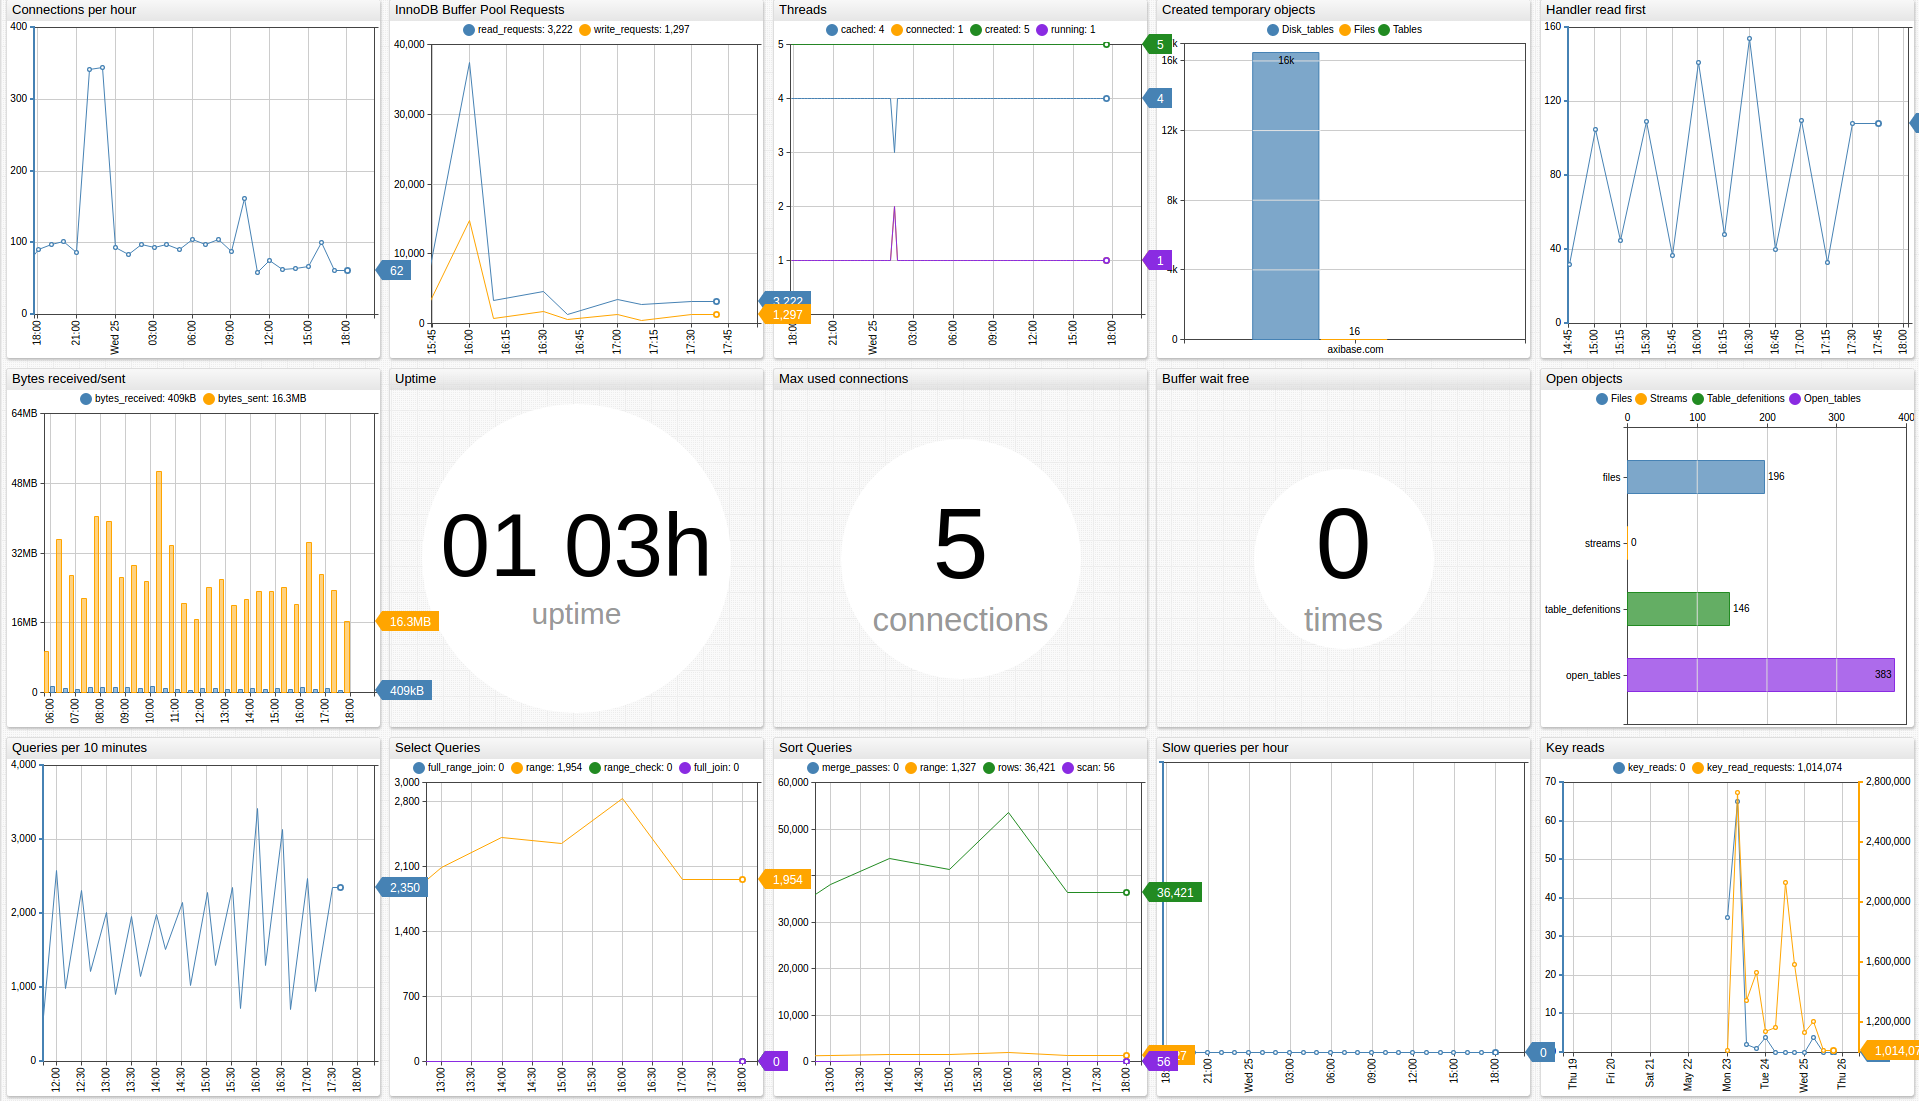
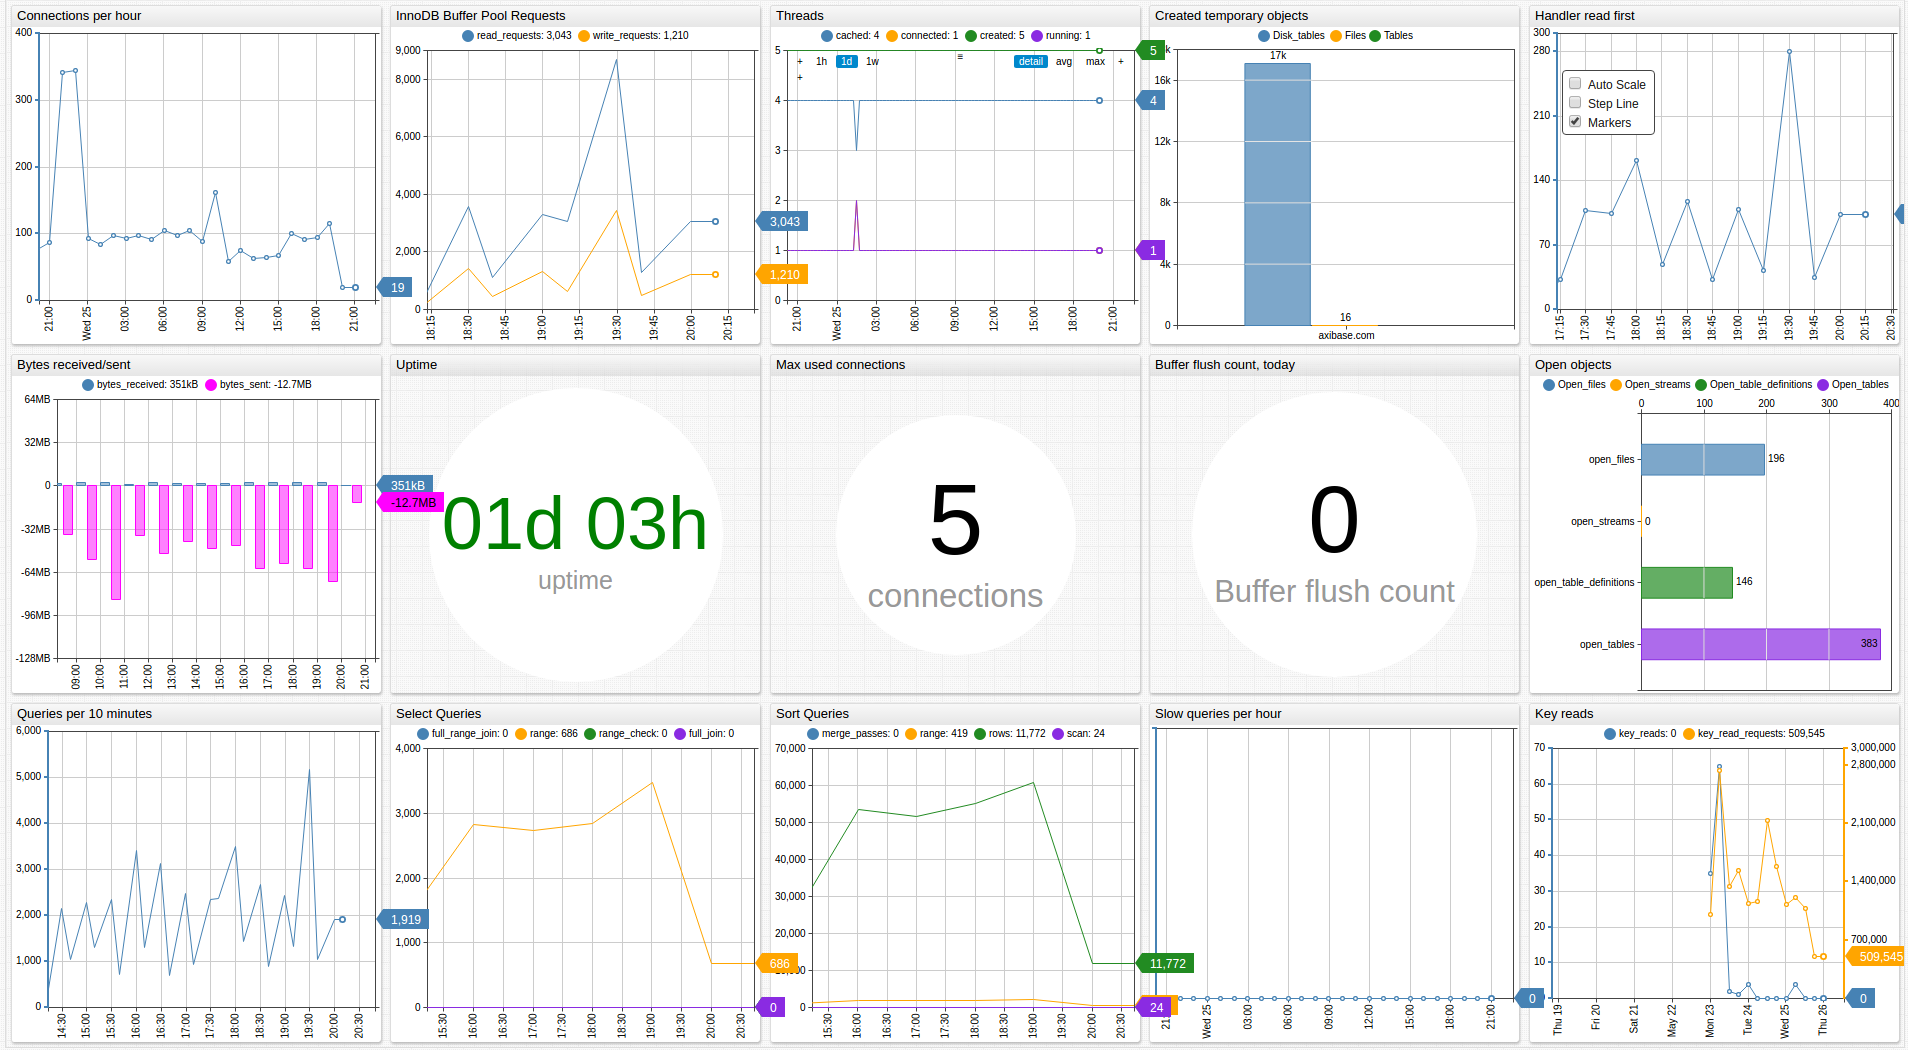
mysql: added guide files

diff --git a/jobs/examples/mysql/README.md b/jobs/examples/mysql/README.md
@@ -84,7 +84,7 @@ hasMetric('mysql.global_status.uptime')
 
 ![](images/mysql-portal-icon.png) 
 
-[MySQL Server Perfomance Portal](http://apps.axibase.com/chartlab/214febe2)
+[MySQL Server Perfomance Portal](http://apps.axibase.com/chartlab/9a720f9e)
 ![](images/mysql-portal.png)
 
 
